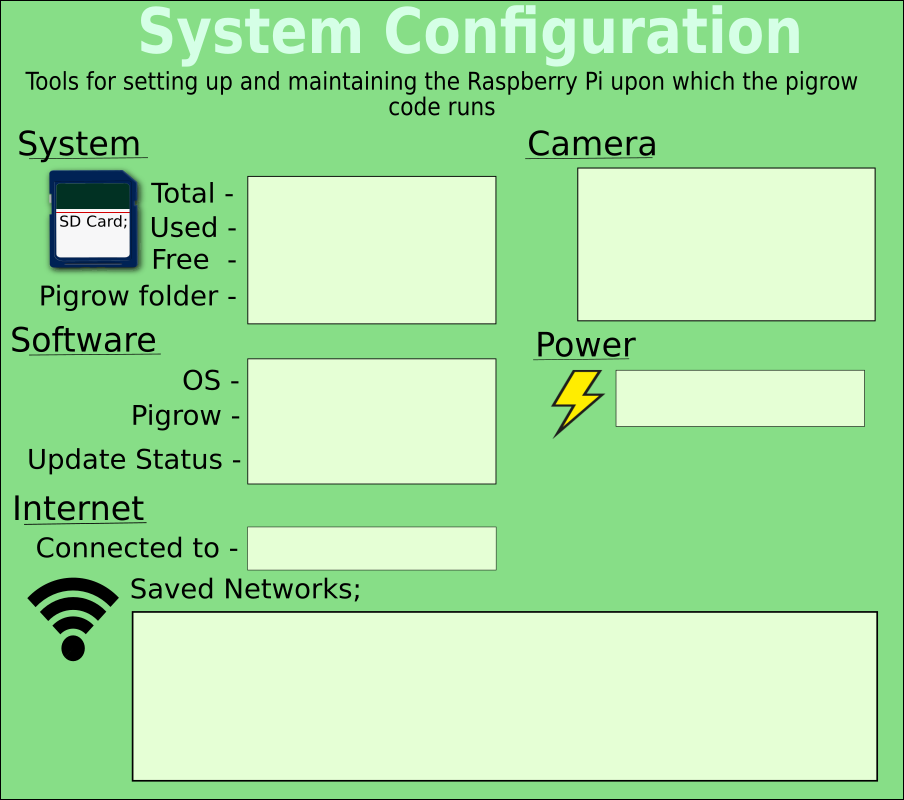
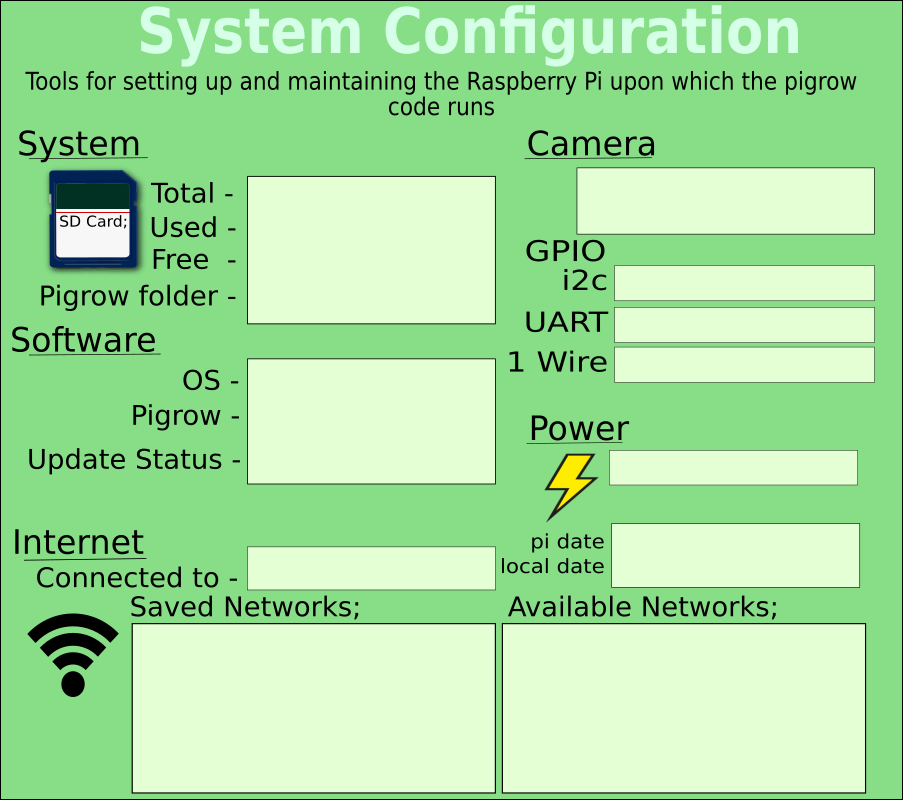
added i2c info to sys tab

diff --git a/scripts/gui/pigrow_remote.py b/scripts/gui/pigrow_remote.py
@@ -23,6 +23,9 @@
 #    localfiles_ctrl_pnl  - buttons for above
 #       + uoload & download dialog box
 #
+#    graphing_info_pnl
+#    graphing_ctrl_pannel
+#
 #
 # - useful functions
 # run_on_pi(self, command)    -   Runs a command on the pigrow and returns output and error
@@ -90,6 +93,53 @@ class system_ctrl_pnl(wx.Panel):
         self.update_pigrow_btn.Bind(wx.EVT_BUTTON, self.update_pigrow_click)
         self.reboot_pigrow_btn = wx.Button(self, label='reboot pigrow', pos=(10, 160), size=(175, 30))
         self.reboot_pigrow_btn.Bind(wx.EVT_BUTTON, self.reboot_pigrow_click)
+        self.i2c_check_btn = wx.Button(self, label='i2c check', pos=(10, 220), size=(175, 30))
+        self.i2c_check_btn.Bind(wx.EVT_BUTTON, self.i2c_check_click)
+
+    def i2c_check_click(self, e):
+        # checking for i2c folder in /dev/
+        out, error = MainApp.localfiles_ctrl_pannel.run_on_pi("ls /dev/*i2c*")
+        if "/dev/i2c-1" in out:
+            print("i2c bus 1 found")
+            i2c_bus_number = 1
+        elif "/dev/i2c-0" in out:
+            i2c_bus_number = 0
+            print("i2c bus 0 found")
+        else:
+            system_info_pnl.sys_i2c_info.SetValue("i2c bus not found")
+            return None
+        i2c_text = "i2c enabled, found no devices" #will change if devices are found
+        # checking i2c bus with i2cdetect and listing found i2c devices
+        out, error = MainApp.localfiles_ctrl_pannel.run_on_pi("/usr/sbin/i2cdetect -y " + str(i2c_bus_number))
+        print out, error
+        i2c_devices_found = out.splitlines()
+        # trimming text and sorting into a list
+        i2c_addresses = []
+        for line in i2c_devices_found[1:]:
+            line = line[3:].replace("--", "").strip()
+            if not line == "":
+                if not len(line) > 2: #only lines with 1 item in
+                    i2c_addresses.append(line)
+                else: #lines with more than one item
+                    for item in line.split("  "):
+                        i2c_addresses.append(item)
+        #print i2c_addresses
+        if len(i2c_addresses) > 0:
+            i2c_text = " found devices at; " + str(i2c_addresses)
+        ##
+        # check if baurdrate is changed in Config
+        out, error = MainApp.localfiles_ctrl_pannel.run_on_pi("/boot/config.txt | grep i2c1_baudrate=")
+        print("looking at /boot/config.txt file for baudrate setting;")
+        if not out.strip() == "" or not out == None:
+            print("Baudrate not changed in /boot/config.txt")
+        else:
+            print("Baudrate changed to;")
+            print out
+        print("-----")
+        ##
+        # change text
+        system_info_pnl.sys_i2c_info.SetLabel(i2c_text)
+
 
     def reboot_pigrow_click(self, e):
         dbox = wx.MessageDialog(self, "Are you sure you want to reboot the pigrow?", "reboot pigrow?", wx.OK | wx.CANCEL | wx.ICON_QUESTION)
@@ -306,11 +356,11 @@ class system_ctrl_pnl(wx.Panel):
         out, error = MainApp.localfiles_ctrl_pannel.run_on_pi("date")
         local_time = datetime.datetime.now()
         local_time_text = local_time.strftime("%a %d %b %X") + " " + str(time.tzname[0]) + " " + local_time.strftime("%Y")
-
-
         out = out.strip()
         system_info_pnl.sys_pi_date.SetLabel(out)
         system_info_pnl.sys_pc_date.SetLabel(str(local_time_text))
+        # GPIO info pannel
+        self.i2c_check_click(e)
 
     def install_click(self, e):
         install_dbox = install_dialog(None, title='Install Pigrow to Raspberry Pi')
@@ -379,6 +429,8 @@ class system_info_pnl(wx.Panel):
         ## Draw UI elements
         png = wx.Image('./sysconf.png', wx.BITMAP_TYPE_ANY).ConvertToBitmap()
         wx.StaticBitmap(self, -1, png, (0, 0), (png.GetWidth(), png.GetHeight()))
+        # Raspberry Pi revision
+        system_info_pnl.sys_pi_revision = wx.StaticText(self,  label='raspberry pi version', pos=(160, 140), size=(200,30))
         #SDcard details
         system_info_pnl.sys_hdd_total = wx.StaticText(self,  label='total;', pos=(250, 180), size=(200,30))
         system_info_pnl.sys_hdd_remain = wx.StaticText(self,  label='free;', pos=(250, 250), size=(200,30))
@@ -389,18 +441,20 @@ class system_info_pnl(wx.Panel):
         #system_info_pnl.sys_pigrow_version = wx.StaticText(self,  label='pigrow version;', pos=(250, 405), size=(200,30))
         system_info_pnl.sys_pigrow_update = wx.StaticText(self,  label='Pigrow update status', pos=(250, 450), size=(200,30))
         #wifi deatils
-        system_info_pnl.sys_network_name = wx.StaticText(self,  label='network name', pos=(250, 535), size=(200,30))
-        system_info_pnl.wifi_list = wx.StaticText(self,  label='wifi list', pos=(140, 620), size=(200,30))
-
+        system_info_pnl.sys_network_name = wx.StaticText(self,  label='network name', pos=(250, 560), size=(200,30))
+        system_info_pnl.wifi_list = wx.StaticText(self,  label='wifi list', pos=(140, 620), size=(200,100))
+        system_info_pnl.available_wifi_list = wx.StaticText(self,  label='feature not implimented', pos=(540, 630), size=(200,100))
         #camera details
         system_info_pnl.sys_camera_info = wx.StaticText(self,  label='camera info', pos=(585, 170), size=(200,30))
+        # GPIO set up details
+        system_info_pnl.sys_i2c_info = wx.StaticText(self,  label='i2c info', pos=(620, 270), size=(300,30))
+        system_info_pnl.sys_uart_info = wx.StaticText(self,  label='uart info (not implimented)', pos=(620, 315), size=(300,30))
+        system_info_pnl.sys_1wire_info = wx.StaticText(self,  label='1 wire info (not implimented)', pos=(620, 355), size=(300,30))
         #power level warning details
-        system_info_pnl.sys_power_status = wx.StaticText(self,  label='power status', pos=(625, 390), size=(200,30))
-        # Raspberry Pi revision
-        system_info_pnl.sys_pi_revision = wx.StaticText(self,  label='raspberry pi version', pos=(625, 450), size=(200,30))
+        system_info_pnl.sys_power_status = wx.StaticText(self,  label='power status', pos=(625, 450), size=(200,30))
         # Pi datetime vs local pc datetime
-        system_info_pnl.sys_pi_date = wx.StaticText(self,  label='datetime on pi', pos=(625, 495), size=(500,30))
-        system_info_pnl.sys_pc_date = wx.StaticText(self,  label='datetime on local pc', pos=(625, 525), size=(200,30))
+        system_info_pnl.sys_pi_date = wx.StaticText(self,  label='datetime on pi', pos=(620, 530), size=(500,30))
+        system_info_pnl.sys_pc_date = wx.StaticText(self,  label='datetime on local pc', pos=(620, 560), size=(200,30))
         #system_info_pnl.sys_time_diff = wx.StaticText(self,  label='difference', pos=(700, 555), size=(200,30))
 
 class install_dialog(wx.Dialog):

diff --git a/linux_baseunit/webcamtrigger.py b/linux_baseunit/webcamtrigger.py
@@ -10,6 +10,7 @@ print(" USE l=3 to take a photo every 3 somethings")
 print("      t  to take triggered photos ")
 print("     cap=" + homedir + "/folder/ to set caps path other than current dir")
 print("      np to stop it trying to change the wallpaper")
+print("   EXIT using ctrl-c or whatever")
 pi_paper = True  #updates pi wall paper, use -nopaper to turn it off.
 s_val = "20"
 c_val = "20"
